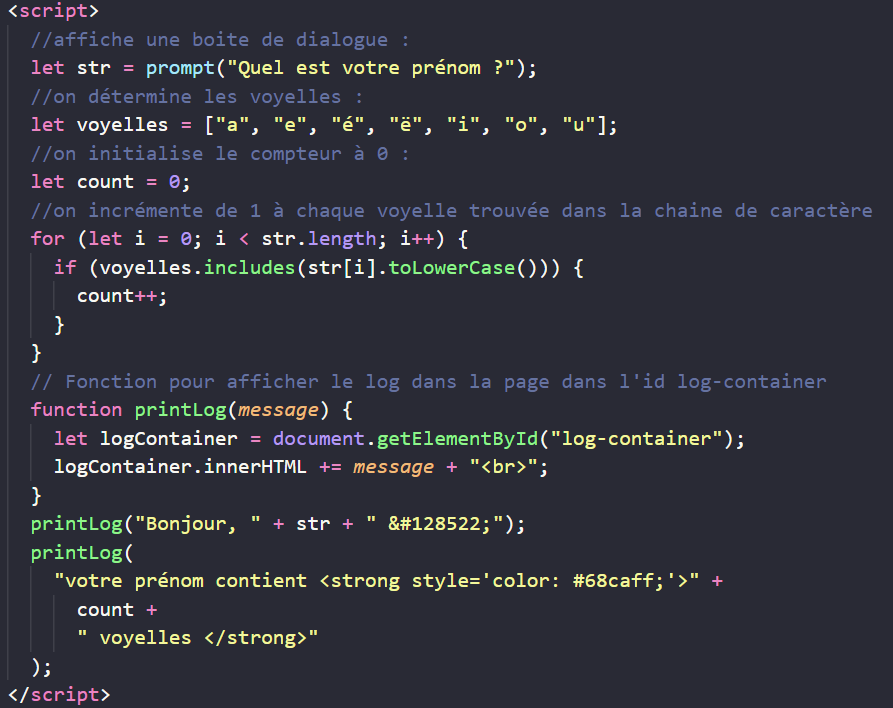
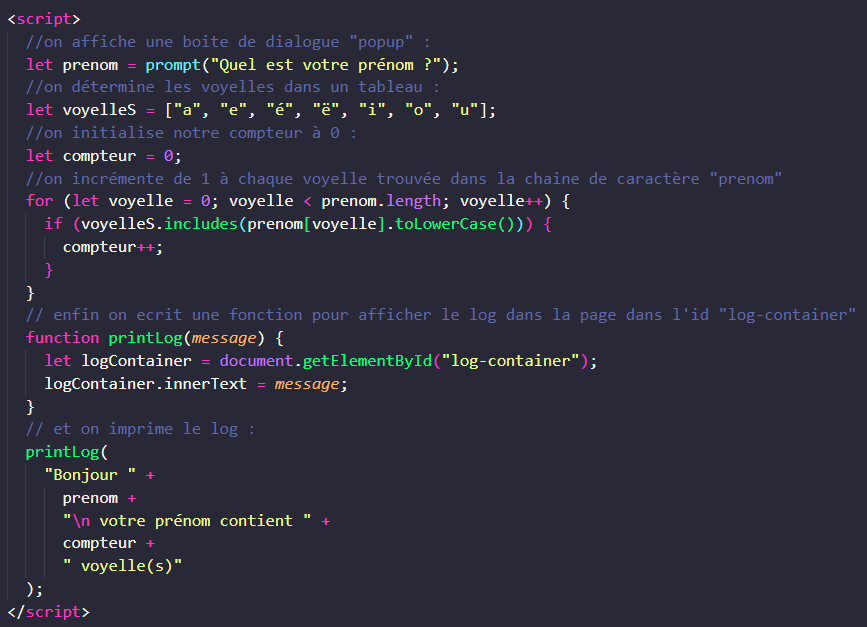
ajouts d'exercices javascript

diff --git a/javascript/exo2.html b/javascript/exo2.html
@@ -4,7 +4,7 @@
     <meta charset="UTF-8" />
     <meta name="viewport" content="width=device-width, initial-scale=1.0" />
     <title>Apprendre JavaScript | Exercice 2</title>
-    <link rel="stylesheet" href="css/froggie.css" />
+    <link rel="stylesheet" href="../html+css/css/froggie.css" />
     <link rel="stylesheet" href="css/styles.css" />
   </head>
   <body>
@@ -34,32 +34,43 @@
       </ul>
 
       <img src="ressources/exo2.png" alt="" class="img-responsive" />
+      <br /><br />
+      <strong>Exercice :</strong> <br />
+      à partir de ce code, essayez de vous l'approprier en détournant son usage
+      : demandez un email au visiteur et controlez s'il semble etre valide en
+      cherchant des extensions de domaines connus (.fr, .com etc ...) et aussi
+      l'@ <br />
+      il faudra utiliser du if includes(), ou du if endsWith() pour vérifier
+      l'email.
+
       <img src="ressources/froggie-300.png" alt="Froggie" class="overfrog" />
     </div>
 
     <script>
-      //affiche une boite de dialogue :
-      let str = prompt("Quel est votre prénom ?");
-      //on détermine les voyelles :
-      let voyelles = ["a", "e", "é", "ë", "i", "o", "u"];
-      //on initialise le compteur à 0 :
-      let count = 0;
-      //on incrémente de 1 à chaque voyelle trouvée dans la chaine de caractère
-      for (let i = 0; i < str.length; i++) {
-        if (voyelles.includes(str[i].toLowerCase())) {
-          count++;
+      //on affiche une boite de dialogue "popup" :
+      let prenom = prompt("Quel est votre prénom ?");
+      //on détermine les voyelles dans un tableau :
+      let voyelleS = ["a", "e", "é", "ë", "i", "o", "u"];
+      //on initialise notre compteur à 0 :
+      let compteur = 0;
+      //on incrémente de 1 à chaque voyelle trouvée dans la chaine de caractère "prenom"
+      for (let voyelle = 0; voyelle < prenom.length; voyelle++) {
+        if (voyelleS.includes(prenom[voyelle].toLowerCase())) {
+          compteur++;
         }
       }
-      // Fonction pour afficher le log dans la page dans l'id log-container
+      // enfin on ecrit une fonction pour afficher le log dans la page dans l'id "log-container"
       function printLog(message) {
         let logContainer = document.getElementById("log-container");
-        logContainer.innerHTML += message + "<br>";
+        logContainer.innerText = message;
       }
-      printLog("Bonjour, " + str + " &#128522;");
+      // et on imprime le log :
       printLog(
-        "votre prénom contient <strong style='color: #68caff;'>" +
-          count +
-          " voyelle(s)</strong>"
+        "Bonjour " +
+          prenom +
+          "\n votre prénom contient " +
+          compteur +
+          " voyelle(s)"
       );
     </script>
   </body>

diff --git a/javascript/exo2tp1.html b/javascript/exo2tp1.html
@@ -1,0 +1,52 @@
+<!DOCTYPE html>
+<html lang="fr">
+  <head>
+    <meta charset="UTF-8" />
+    <meta name="viewport" content="width=device-width, initial-scale=1.0" />
+    <title>Apprendre JavaScript | Exercice 2</title>
+    <link rel="stylesheet" href="../html+css/css/froggie.css" />
+    <link rel="stylesheet" href="css/styles.css" />
+  </head>
+  <body>
+    <div class="exercice">
+      <h1>Apprendre JavaScript | Exercice 2 application</h1>
+    </div>
+
+    <div class="container">
+      <div id="log-container"></div>
+    </div>
+    <div class="froggiesplaining">
+      <span> Froggiesplaining :</span>
+
+      <img src="ressources/exo2tp1.png" alt="" class="img-responsive" />
+      <br /><br />
+
+      <img src="ressources/froggie-300.png" alt="Froggie" class="overfrog" />
+    </div>
+
+    <script>
+      //on affiche encore ici une boite de dialogue "popup" pour demander le mail :
+      let mail = prompt("Saisissez votre email pour vérification svp :");
+      //on détermine les domaines classique des emails dans un tableau :
+      const domaine = [".com", ".fr", ".net", ".de"];
+      //on initialise notre mail à invalide par defaut :
+      let bonMail = "invalide !";
+      //deja on fait un if s'il y a un "@" inclus dans la string mail :
+      if (mail.includes("@")) {
+        //si oui on controle si mail termine par l'une des extensions du tableau domaine
+        let testExtension = domaine.some((domaines) => mail.endsWith(domaines));
+        // si oui, alors on change la variable texte du mail à "valide"
+        if (testExtension === true) {
+          bonMail = "valide !";
+        }
+      }
+      // cette section reste inchangée : on ecrit une fonction pour afficher le log dans la page dans l'id "log-container"
+      function printLog(message) {
+        let logContainer = document.getElementById("log-container");
+        logContainer.innerText = message;
+      }
+      // et on imprime le log adapté au message autour de l'email valide ou non :
+      printLog("Le mail : \n" + mail + "\n semble " + bonMail);
+    </script>
+  </body>
+</html>

diff --git a/javascript/exo6.html b/javascript/exo6.html
@@ -6,7 +6,7 @@
     <title>Apprendre JavaScript | Exercice 6</title>
     <link rel="stylesheet" href="css/carrousel.css" />
     <link rel="stylesheet" href="css/styles.css" />
-    <link rel="stylesheet" href="css/froggie.css" />
+    <link rel="stylesheet" href="../html+css/css/froggie.css" />
   </head>
   <body>
     <div class="exercice">
@@ -32,25 +32,12 @@
 
       <ul>
         <li>
-          <strong> où est le JavaScript ?</strong> Le code JavaScript est inclus
-          dans la balise "script" tout en bas de cette page html
-        </li>
-        <li>
-          <strong>getElementById() ? </strong>Sélectionne les éléments HTML par
-          leur id.
-        </li>
-        <li>
-          <strong>addEventListener('click', showMessage) ? </strong>Ajoute un
-          événement pour détecter (il "écoute"/ "listener") le clic sur le
-          bouton.
-        </li>
-        <li>
-          <strong> showMessage() :</strong> Cette fonction est exécutée lorsque
-          l'utilisateur clique sur le bouton et affiche le texte du paragraphe.
+          <strong> où est le JavaScript ?</strong> Cette fois le code JavaScript
+          est plus conséquent, du coup il n'est pas inclus dans cette page html,
+          mais dans un fichier à part qu'on appelle avec cette ligne :<br />
+          <img src="ressources/exo6-1.png" alt="" />
         </li>
       </ul>
-
-      <img src="ressources/exo1.png" alt="" class="img-responsive" />
       <img src="ressources/froggie-300.png" alt="Froggie" class="overfrog" />
     </div>
   </body>

diff --git a/html+css/css/froggie.css b/html+css/css/froggie.css
@@ -60,10 +60,14 @@ body {
 }
 
 .exercice {
-  padding: 16px;
-  margin: 16px;
+  padding: 8px;
+  margin: 24px;
   border: thin solid #282a36;
   text-align: left;
+}
+.exercice h1 {
+  line-height: 16px;
+  font-size: 16px;
 }
 .exercice::before {
   content: url("../../javascript/ressources/froggie-100.png");
@@ -73,7 +77,7 @@ body {
 }
 
 .froggiesplaining {
-  background-color: #232659;
+  background-color: #282836;
   padding: 16px;
   margin: 16px;
   color: #15acff;
